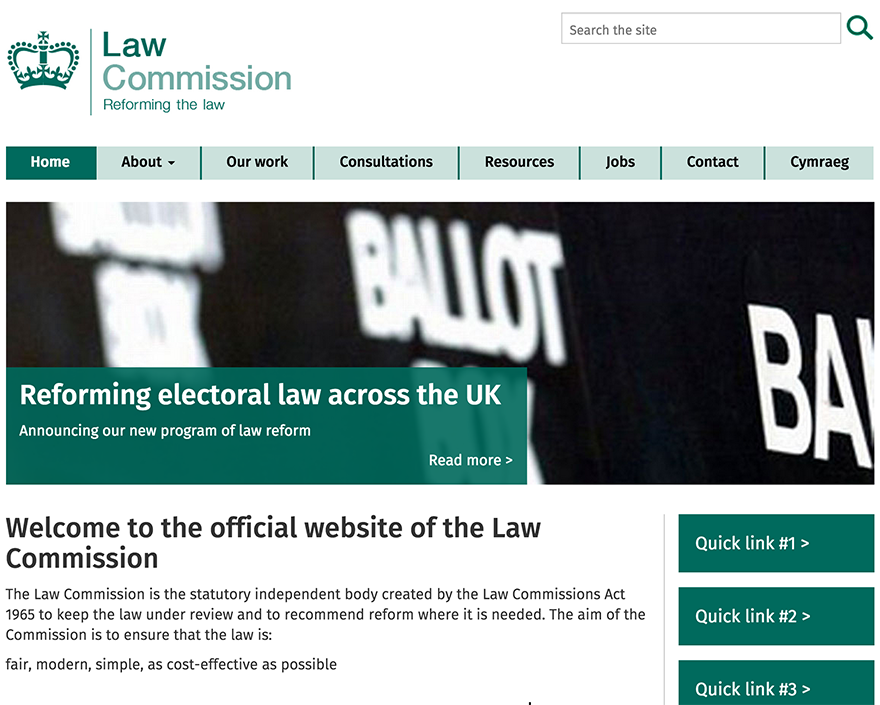
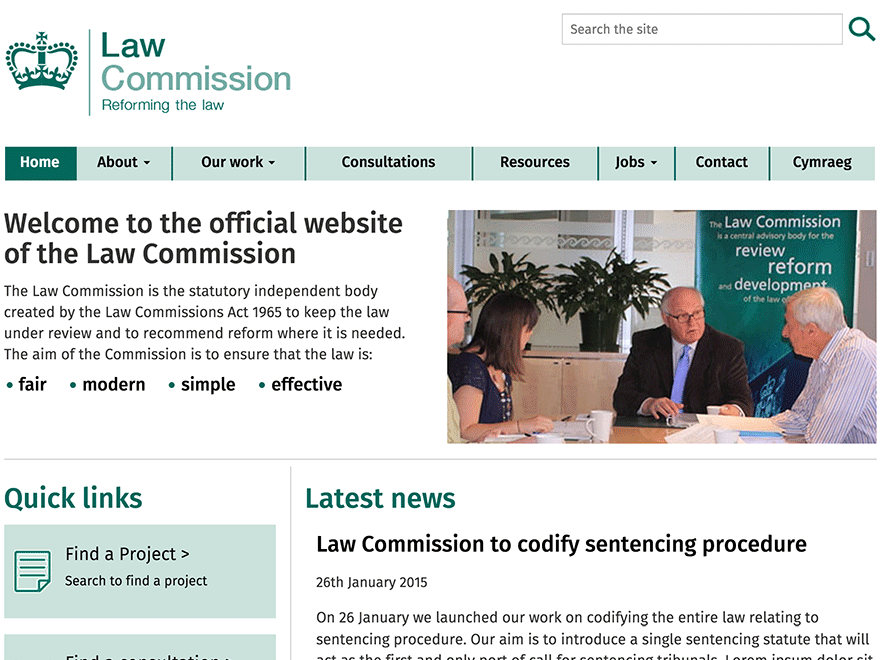
Homepage metaboxes and responsive css

diff --git a/wp-content/themes/law-comm/assets/css/main.css b/wp-content/themes/law-comm/assets/css/main.css
@@ -6429,7 +6429,12 @@ figure.alignnone {
 #branding {
   margin: 2em 0 1em 0;
   display: inline-block;
-  width: 33%;
+  width: 40%;
+}
+@media (min-width: 768px) {
+  #branding {
+    width: 33%;
+  }
 }
 /* - - - - - - Navigation - - - - - - */
 .navbar {
@@ -6665,11 +6670,22 @@ figure.alignnone {
 }
 #top-banner .intro-left ul li {
   float: left;
-  width: auto;
+  width: 25%;
   margin-right: 2em;
   color: #006a5d;
   font-size: 1.2em;
   font-weight: 500;
+}
+@media (min-width: 480px) {
+  #top-banner .intro-left ul li {
+    width: auto;
+    margin-right: 1.2em;
+  }
+}
+@media (min-width: 992px) {
+  #top-banner .intro-left ul li {
+    margin-right: 2em;
+  }
 }
 #top-banner .intro-left ul li span {
   color: #000000;
@@ -6720,13 +6736,13 @@ figure.alignnone {
   font-size: .75em;
 }
 .quick-links ul li.ql1 {
-  background: #cbe1dc url('../img/publications-icon.png') no-repeat 10px 50%;
+  background: #cbe1dc url('../img/projects-icon.png') no-repeat 10px 50%;
 }
 .quick-links ul li.ql2 {
   background: #cbe1dc url('../img/consultations-icon.png') no-repeat 10px 50%;
 }
 .quick-links ul li.ql3 {
-  background: #cbe1dc url('../img/projects-icon.png') no-repeat 10px 50%;
+  background: #cbe1dc url('../img/publications-icon.png') no-repeat 10px 50%;
 }
 .news ul li {
   float: none;
@@ -6748,10 +6764,20 @@ li .news-details h3 {
   color: #000000;
 }
 li .news-details .home-news-img-wrapper {
-  height: 300px;
+  height: 190px;
   width: 100%;
   overflow: hidden;
   margin: 0 0 1em 0;
+}
+@media (min-width: 768px) {
+  li .news-details .home-news-img-wrapper {
+    height: 230px;
+  }
+}
+@media (min-width: 992px) {
+  li .news-details .home-news-img-wrapper {
+    height: 270px;
+  }
 }
 .news-meta {
   margin: 1em 0;

diff --git a/wp-content/themes/law-comm/assets/less/layouts/_pages.less b/wp-content/themes/law-comm/assets/less/layouts/_pages.less
@@ -25,11 +25,18 @@
 					margin-left: 22px;
 					li {
 						float: left;
-						width: auto;
+						width: 25%;
 						margin-right: 2em;
 						color: @brand-primary;
 						font-size: 1.2em;
 						font-weight: 500;
+							@media (min-width: @screen-xs-min) {
+							  width: auto;
+							  margin-right: 1.2em;
+						}
+							@media (min-width: @screen-md-min) {
+						margin-right: 2em;
+						}
 						span {
 							color: @dark-text-clr;
 							position: relative;
@@ -104,7 +111,7 @@
 }
 
 	.quick-links ul li.ql1 {
-		background: @brand-secondary url('../img/publications-icon.png') no-repeat 10px 50%;
+		background: @brand-secondary url('../img/projects-icon.png') no-repeat 10px 50%;
 
 	}
 
@@ -114,7 +121,7 @@
 	}
 
 	.quick-links ul li.ql3 {
-		background: @brand-secondary url('../img/projects-icon.png') no-repeat 10px 50%;
+		background: @brand-secondary url('../img/publications-icon.png') no-repeat 10px 50%;
 
 	}
 
@@ -150,10 +157,16 @@ li .news-details {
 		}
 
 		.home-news-img-wrapper {
-			height: 300px;
+			height: 190px;
 			width: 100%;
 			overflow: hidden;
 			margin: 0 0 1em 0;
+				@media (min-width: @screen-sm) {
+					height: 230px;
+			}
+				@media (min-width: @screen-md) {
+					height: 270px;
+			}
 		}
 }
 

diff --git a/wp-content/themes/law-comm/assets/less/layouts/_header.less b/wp-content/themes/law-comm/assets/less/layouts/_header.less
@@ -10,11 +10,11 @@
  #branding {
  	margin:2em 0 1em 0;
  	display: inline-block;
- 	width: 33%;
+ 	width: 40%;
 
-	 	img {
-	 		// max-width: 200px;
-	 	}
+        @media (min-width: @screen-sm) {
+          width: 33%;
+      }
 
 
  }

diff --git a/wp-content/themes/law-comm/lib/meta-box-array.php b/wp-content/themes/law-comm/lib/meta-box-array.php
@@ -11,6 +11,11 @@ $meta_boxes = array(
 		'priority' => 'high',
 		'fields' => array(
 			array(
+				'id' => 'Welcome-tab',
+				'label' => 'Welcome title and text',
+				'type' => 'tab'
+			),
+			array(
 				'id' => 'welcome-title',
 				'label' => 'Welcome title',
 				'type' => 'text',
@@ -23,27 +28,33 @@ $meta_boxes = array(
 				'desc' => 'Intro text on homepage, underneath main title'
 			),
 			array(
-				'id' => 'banner-tab',
-				'label' => 'Banner',
+				'id' => 'commission-aims-tab',
+				'label' => 'Aims list',
 				'type' => 'tab'
 			),
 			array(
-				'id' => 'banner_heading',
-				'label' => 'Banner heading',
+				'id' => 'commission-aim-1',
+				'label' => 'Commission Aim 1',
 				'type' => 'text',
-				'desc' => 'Main heading in banner area'
+				'desc' => 'First item in list of commission aims'
 			),
 			array(
-				'id' => 'banner-sub-heading',
-				'label' => 'Banner sub-heading',
+				'id' => 'commission-aim-2',
+				'label' => 'Commission Aim 2',
 				'type' => 'text',
-				'desc' => 'Sub-heading in banner area'
+				'desc' => 'Second item in list of commission aims'
 			),
 			array(
-				'id' => 'banner-link',
-				'label' => 'Banner link',
+				'id' => 'commission-aim-3',
+				'label' => 'Commission Aim 3',
 				'type' => 'text',
-				'desc' => 'The destination for the link in the banner'
+				'desc' => 'Third item in list of commission aims'
+			),
+			array(
+				'id' => 'commission-aim-4',
+				'label' => 'Commission Aim 4',
+				'type' => 'text',
+				'desc' => 'Fourth item in list of commission aims'
 			),
 			array(
 				'id' => 'quick-links-tab',
@@ -87,98 +98,15 @@ $meta_boxes = array(
 				'desc' => 'Please select the destination page for the third link'
 			),
 			array(
-				'id' => 'quick-link-4',
-				'label' => 'Quick link 4 text',
-				'type' => 'text',
-				'desc' => 'Text to display for the fourth quick link'
-			),
-			array(
-				'id' => 'quick-link-4-page',
-				'label' => 'Quick link 4 destination',
-				'type' => 'page-select',
-				'desc' => 'Please select the destination page for the fourth link'
-			),
-			array(
-				'id' => 'sidebar-text-tab',
-				'label' => 'Sidebar text',
+				'id' => 'youtube-video',
+				'label' => 'Youtube video',
 				'type' => 'tab'
 			),
 			array(
-				'id' => 'sidebar-text-title',
-				'label' => 'Sidebar text title',
-				'type' => 'text',
-				'desc' => 'Sidebar title'
-			),
-			array(
-				'id' => 'sidebar-text-p1',
-				'label' => 'Sidebar text first para',
-				'type' => 'textarea-simple',
-				'desc' => 'First paragraph of sidebar body text'
-			),
-			array(
-				'id' => 'sidebar-text-p2',
-				'label' => 'Sidebar text second para',
-				'type' => 'textarea-simple',
-				'desc' => 'Second paragraph of sidebar body text'
-			),
-			array(
-				'id' => 'sidebar-link',
-				'label' => 'Sidebar link',
-				'type' => 'page-select',
-				'desc' => 'Link under sidebar text'
-			),
-			array(
-				'id' => 'related-links',
-				'label' => 'Related links',
-				'type' => 'tab'
-			),
-			array(
-				'id' => 'related-1',
-				'label' => 'Related link 1 text',
-				'type' => 'text',
-				'desc' => 'Text to display for the first quick link'
-			),
-			array(
-				'id' => 'related-link-1',
-				'label' => 'Related link 1 URL',
-				'type' => 'text',
-				'desc' => 'The destination for the first related link'
-			),
-			array(
-				'id' => 'related-2',
-				'label' => 'Related link 2 text',
-				'type' => 'text',
-				'desc' => 'Text to display for the second quick link'
-			),
-			array(
-				'id' => 'related-link-2',
-				'label' => 'Related link 2 URL',
-				'type' => 'text',
-				'desc' => 'The destination for the second related link'
-			),
-			array(
-				'id' => 'related-3',
-				'label' => 'Related link 3 text',
-				'type' => 'text',
-				'desc' => 'Text to display for the third quick link'
-			),
-			array(
-				'id' => 'related-link-3',
-				'label' => 'Related link 3 URL',
-				'type' => 'text',
-				'desc' => 'The destination for the third related link'
-			),
-			array(
-				'id' => 'related-4',
-				'label' => 'Related link 4 text',
-				'type' => 'text',
-				'desc' => 'Text to display for the fourth quick link'
-			),
-			array(
-				'id' => 'related-link-4',
-				'label' => 'Related link 4 URL',
-				'type' => 'text',
-				'desc' => 'The destination for the fourth related link'
+				'id' => 'video-embed',
+				'label' => 'Video embed code',
+				'type' => 'textarea',
+				'desc' => 'Youtube embed code for latest media'
 			)
 		)
 	)

diff --git a/wp-content/themes/law-comm/page-home.php b/wp-content/themes/law-comm/page-home.php
@@ -1,3 +1,11 @@
+
+<?php
+/*
+Template Name: Homepage
+*/
+?>
+
+
 <?php while (have_posts()) : the_post(); ?>
   <?php get_template_part( 'header'); ?>
 	
@@ -6,13 +14,13 @@
 
 		  	<div class="row">
 		      <div class="col-sm-6 intro-left">
-		      	<h2>Welcome to the official website of the Law Commission</h2>
-		        	<p>The Law Commission is the statutory independent body created by the Law Commissions Act 1965 to keep the law under review and to recommend reform where it is needed. The aim of the Commission is to ensure that the law is:</p>
+		      	<h2><?php echo get_post_meta( $post->ID, "welcome-title", true ); ?></h2>
+		        	<p><?php echo get_post_meta( $post->ID, "welcome-text", true ); ?></p>
 			        	<ul>
-				        	<li><span>fair</span></li>
-				        	<li><span>modern</span></li>
-				        	<li><span>simple</span></li>
-				        	<li><span>effective</span></li>
+				        	<li><span><?php echo get_post_meta( $post->ID, "commission-aim-1", true ); ?></span></li>
+				        	<li><span><?php echo get_post_meta( $post->ID, "commission-aim-2", true ); ?></span></li>
+				        	<li><span><?php echo get_post_meta( $post->ID, "commission-aim-3", true ); ?></span></li>
+				        	<li><span><?php echo get_post_meta( $post->ID, "commission-aim-4", true ); ?></span></li>
 			        	</ul>
 		      </div>
 		      <div class="col-sm-6 intro-right">
@@ -29,9 +37,9 @@
 			<div class="quick-links side-item">
 			<h2>Quick links</h2>
   				<ul>
-  					<li class="ql1"><a href="<?php echo get_permalink( get_post_meta( $post->ID, "quick-link-1-page", true )); ?>"><?php echo get_post_meta( $post->ID, "quick-link-1", true ); ?> ><p><span>Search to find a publication</span></p></a></li>
+  					<li class="ql1"><a href="<?php echo get_permalink( get_post_meta( $post->ID, "quick-link-1-page", true )); ?>"><?php echo get_post_meta( $post->ID, "quick-link-1", true ); ?> ><p><span>Search to find a project</span></p></a></li>
   					<li class="ql2"><a href="<?php echo get_permalink( get_post_meta( $post->ID, "quick-link-2-page", true )); ?>"><?php echo get_post_meta( $post->ID, "quick-link-2", true ); ?> ><p><span>Search to find a consultation</span></p></a></li>
-  					<li class="ql3"><a href="<?php echo get_permalink( get_post_meta( $post->ID, "quick-link-3-page", true )); ?>"><?php echo get_post_meta( $post->ID, "quick-link-3", true ); ?> ><p><span>Search to find a project</span></p></a></li>
+  					<li class="ql3"><a href="<?php echo get_permalink( get_post_meta( $post->ID, "quick-link-3-page", true )); ?>"><?php echo get_post_meta( $post->ID, "quick-link-3", true ); ?> ><p><span>Search to find a publication</span></p></a></li>
   				</ul>
   			</div>
 
@@ -46,7 +54,7 @@
  			<div class="media side-item video-container">
 				<h2>Latest media</h2>
 					<div class="videoWrapper">
-					 	<iframe width="640" height="360" src="//www.youtube.com/embed/XtpwSW_2K8Y" frameborder="0" allowfullscreen></iframe> 
+					<?php echo get_post_meta( $post->ID, "video-embed", true ); ?>
 					 </div>
 			</div>
 

diff --git a/wp-content/themes/law-comm/lib/custom.php b/wp-content/themes/law-comm/lib/custom.php
@@ -34,4 +34,25 @@ add_filter( 'ot_header_version_text', '__return_null' );
 //load_template( trailingslashit( get_template_directory() ) . 'lib/theme-options.php' );
 require_once (trailingslashit( get_template_directory() ) . 'option-tree/ot-loader.php');
 
+/**
+ * Hide editor on homepage.
+ *
+ */
+add_action('init', 'remove_editor_init');
+function remove_editor_init() {
+    // if post not set, just return 
+    // fix when post not set, throws PHP's undefined index warning
+    if (isset($_GET['post'])) {
+        $post_id = $_GET['post'];
+    } else if (isset($_POST['post_ID'])) {
+        $post_id = $_POST['post_ID'];
+    } else {
+        return;
+    }
+    $template_file = get_post_meta($post_id, '_wp_page_template', TRUE);
+    if ($template_file == 'page-home.php') {
+        remove_post_type_support('page', 'editor');
+    }
+}
+
 
